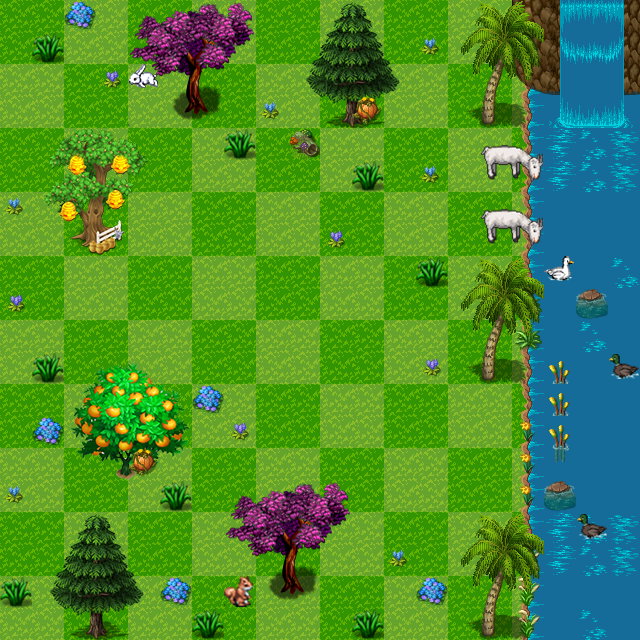
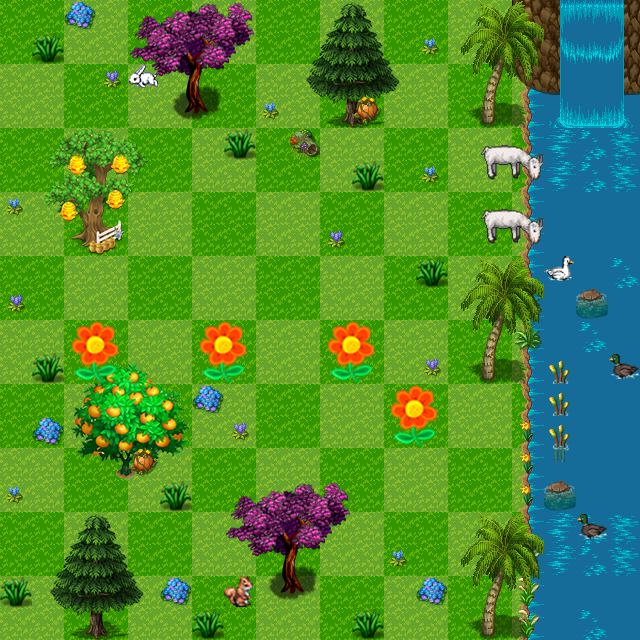
Update Maps

diff --git a/AlgoZoo/src/algoZoo/learn/LearnModeGUI.java b/AlgoZoo/src/algoZoo/learn/LearnModeGUI.java
@@ -26,8 +26,7 @@ public class LearnModeGUI extends javax.swing.JPanel {
    CodeView codeView;
    LearnModeModel lmm;
    SelectionController selectionController;
-   LearnLevels currentLevel;
-   ArrayList<LearnLevels> levelContainer;
+   LearnLevels currentLevel;  
    LearnLevelsContainer  learnLevelsContainer;
    
 
@@ -122,7 +121,7 @@ public class LearnModeGUI extends javax.swing.JPanel {
       // initialize components  
 
       initLevels();
-      currentLevel = levelContainer.get(0);
+      currentLevel = learnLevelsContainer.get(0);
       lmm = new LearnModeModel(currentLevel.getStartX(), currentLevel.getStartY(), currentLevel.getFinishX(), currentLevel.getFinishY(), currentLevel.getMinRequiredMovements(), currentLevel.getFlowers());
 
       mapView = new MapView(lmm);
@@ -156,43 +155,71 @@ public class LearnModeGUI extends javax.swing.JPanel {
       LearnLevels level1 = new LearnLevels(4, 6, 7, 6, 3, new ImageIcon(getClass().getResource("/algoZoo/Maps/LearnMode/Level1.png")), 1, true);
       LearnLevels level2 = new LearnLevels(7, 6, 5, 5, 3, new ImageIcon(getClass().getResource("/algoZoo/Maps/LearnMode/Level2.png")), 2, false);
       LearnLevels level3 = new LearnLevels(4, 7, 7, 5, 6, new ImageIcon(getClass().getResource("/algoZoo/Maps/LearnMode/Level3.png")), 3, false);
-      LearnLevels level4 = new LearnLevels(4, 5, 7, 4, 1, new ImageIcon(getClass().getResource("/algoZoo/Maps/LearnMode/Level4.png")), 4, false);
-      LearnLevels level5 = new LearnLevels(4, 5, 4, 9, 1, new ImageIcon(getClass().getResource("/algoZoo/Maps/LearnMode/Level5.png")), 5,false);
-      LearnLevels level6 = new LearnLevels(4, 5, 8, 7, 1, new ImageIcon(getClass().getResource("/algoZoo/Maps/LearnMode/Level6.png")), 6, false);
-      LearnLevels level7 = new LearnLevels(4, 5, 9, 4, 1, new ImageIcon(getClass().getResource("/algoZoo/Maps/LearnMode/Level7.png")), 7, false);
-      LearnLevels level8 = new LearnLevels(4, 5, 8, 6, 1, new ImageIcon(getClass().getResource("/algoZoo/Maps/LearnMode/Level8.png")), 8, false);
-      LearnLevels level9 = new LearnLevels(4, 5, 8, 8, 1, new ImageIcon(getClass().getResource("/algoZoo/Maps/LearnMode/Level9.png")), 9, false);
-      LearnLevels level10 = new LearnLevels(4, 5, 4, 8, 1, new ImageIcon(getClass().getResource("/algoZoo/Maps/LearnMode/Level10.png")), 10, false);
+      LearnLevels level4 = new LearnLevels(4, 5, 7, 4, 6, new ImageIcon(getClass().getResource("/algoZoo/Maps/LearnMode/Level4.png")), 4, false);
+      LearnLevels level5 = new LearnLevels(7, 7, 4, 9, 7, new ImageIcon(getClass().getResource("/algoZoo/Maps/LearnMode/Level5.png")), 5,false);
+      LearnLevels level6 = new LearnLevels(4, 7, 8, 7, 7, new ImageIcon(getClass().getResource("/algoZoo/Maps/LearnMode/Level6.png")), 6, false);
+      LearnLevels level7 = new LearnLevels(7, 8, 8, 7, 11, new ImageIcon(getClass().getResource("/algoZoo/Maps/LearnMode/Level7.png")), 7, false);
+      LearnLevels level8 = new LearnLevels(5, 7, 8, 6, 10, new ImageIcon(getClass().getResource("/algoZoo/Maps/LearnMode/Level8.png")), 8, false);
+      LearnLevels level9 = new LearnLevels(4, 8, 8, 8, 11, new ImageIcon(getClass().getResource("/algoZoo/Maps/LearnMode/Level9.png")), 9, false);
+      LearnLevels level10 = new LearnLevels(8, 5, 4, 8, 11, new ImageIcon(getClass().getResource("/algoZoo/Maps/LearnMode/Level10.png")), 10, false);
 
       
-      // Set flowers
+      // Set flowers according to LearnMode Levels
       ArrayList<Flower> flowerContainer = new ArrayList<>();
-      level1.setFlowers(flowerContainer);
-      
-      
+      //Level1
+      level1.setFlowers(flowerContainer);      
+      //Level2
       level2.setFlowers(flowerContainer);
-      
+      //Level3
       flowerContainer.add(new Flower(6, 7));
-      level3.setFlowers(flowerContainer);     
-      
-      
-      
+      level3.setFlowers(flowerContainer);   
+      //Level4
+      flowerContainer.add(new Flower(6,5));
+      flowerContainer.add(new Flower(6, 5));
+      level4.setFlowers(flowerContainer);
+      //Level5
+      flowerContainer.add(new Flower(6, 8));
+      flowerContainer.add(new Flower(5, 9));
+      level5.setFlowers(flowerContainer);
+      //Level6
+      flowerContainer.add(new Flower(5, 7));
+      flowerContainer.add(new Flower(6, 7));      
+      level6.setFlowers(flowerContainer);
+      //Level7
+      flowerContainer.add(new Flower(8, 5));
+      flowerContainer.add(new Flower(7, 6));
+      flowerContainer.add(new Flower(6, 7));
+      level7.setFlowers(flowerContainer);      
+      //Level8
+      flowerContainer.add(new Flower(6, 8));
+      flowerContainer.add(new Flower(7, 8));
+      level8.setFlowers(flowerContainer);
+      //Level9
+      flowerContainer.add(new Flower(5, 7));
+      flowerContainer.add(new Flower(6, 8));
+      flowerContainer.add(new Flower(7, 9));
+      level9.setFlowers(flowerContainer);
+      //Level10      
+      flowerContainer.add(new Flower(7, 6));
+      flowerContainer.add(new Flower(8, 6));
+      flowerContainer.add(new Flower(6, 8));
+      flowerContainer.add(new Flower(5, 8));
+      level10.setFlowers(flowerContainer);    
       
 
-      levelContainer = new ArrayList<>();
-      levelContainer.add(level1);
-      levelContainer.add(level2);
-      levelContainer.add(level3);
-      levelContainer.add(level4);
-      levelContainer.add(level5);
-      levelContainer.add(level6);
-      levelContainer.add(level7);
-      levelContainer.add(level8);
-      levelContainer.add(level9);
-      levelContainer.add(level10);
+      learnLevelsContainer = new LearnLevelsContainer();     
+      learnLevelsContainer.add(level1);
+      learnLevelsContainer.add(level2);
+      learnLevelsContainer.add(level3);
+      learnLevelsContainer.add(level4);
+      learnLevelsContainer.add(level5);
+      learnLevelsContainer.add(level6);
+      learnLevelsContainer.add(level7);
+      learnLevelsContainer.add(level8);
+      learnLevelsContainer.add(level9);
+      learnLevelsContainer.add(level10);      
       
-      learnLevelsContainer = new LearnLevelsContainer(levelContainer);
-      SaveGame.save(learnLevelsContainer);
+      //SaveGame.save(learnLevelsContainer);
       
       
 
@@ -218,12 +245,12 @@ public class LearnModeGUI extends javax.swing.JPanel {
     * @param level level number.
     */
    public void setCurrentLevel(int level) {
-      currentLevel = levelContainer.get(level - 1);
+      currentLevel = learnLevelsContainer.get(level - 1);
       initNewLevel();
    }
    
    public void saveLearnLevel(int level) {
-      levelContainer.get(level - 1).setAccomplished(true);
+      learnLevelsContainer.get(level - 1).setAccomplished(true);
       SaveGame.save(learnLevelsContainer);        
    }
 

diff --git a/AlgoZoo/src/algoZoo/learn/SaveGame.java b/AlgoZoo/src/algoZoo/learn/SaveGame.java
@@ -18,6 +18,7 @@ import java.io.Serializable;
  * @author gorke
  */
 public class SaveGame {
+
    public static final String fileName = "/LearnModeSave.sav";
    public static final String root = "/SaveFile";
 
@@ -52,8 +53,7 @@ public class SaveGame {
             // create an ObjectInputStream from the FileInputStream
             ObjectInputStream ois = new ObjectInputStream(fis);
 
-            //create the object itself from the stream
-            //Kontrol etmem gerek Sebebini anlamadım
+            //create the object itself from the stream            
             loadedObject = (LearnLevelsContainer) ois.readObject();
             ois.close();
          } catch (ClassNotFoundException | IOException e) {
@@ -113,5 +113,5 @@ public class SaveGame {
       // the isFile method rerturns true only if valid file is located in the directory folder specified.
       // It will not return true if the directory itself is named after the filename.
    }
-   
+
 }

diff --git a/AlgoZoo/src/algoZoo/learn/LearnLevelsContainer.java b/AlgoZoo/src/algoZoo/learn/LearnLevelsContainer.java
@@ -14,14 +14,20 @@ import java.util.ArrayList;
  */
 public class LearnLevelsContainer implements Serializable {
    // properties
-   ArrayList<LearnLevels> levelContainer = new ArrayList<>();
+   ArrayList<LearnLevels> levelContainer;
    
-   public LearnLevelsContainer(ArrayList<LearnLevels> levelContainer){
-      this.levelContainer = levelContainer;   
+   public LearnLevelsContainer(){
+      levelContainer = new ArrayList<>();
    }
 
+   public void add(LearnLevels level){
+      levelContainer.add(level);
+   }
    public ArrayList<LearnLevels> getLevelContainer() {
       return levelContainer;
+   }
+   public LearnLevels get(int number){
+      return levelContainer.get(number);
    }
    
    
